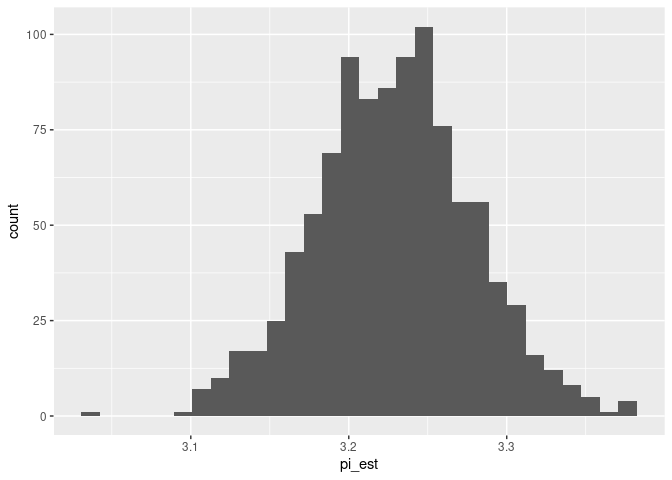
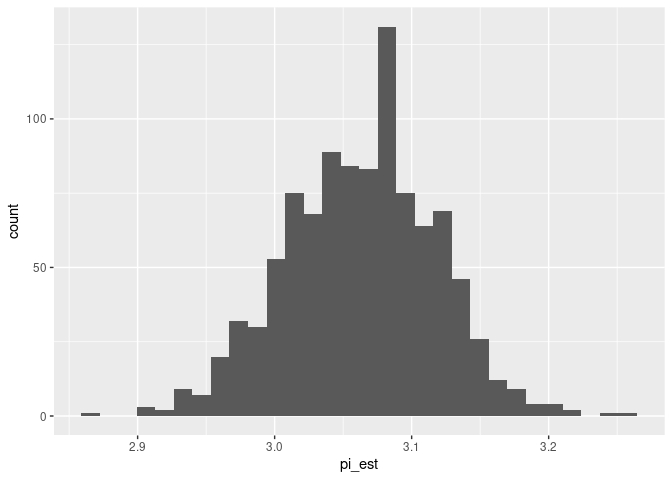
fixed changes to challenge 7

diff --git a/data-science-curriculum-build/data-science-curriculum-build/challenges/c07-monte-carlo-assignment.md b/data-science-curriculum-build/data-science-curriculum-build/challenges/c07-monte-carlo-assignment.md
@@ -248,8 +248,7 @@ Answer the questions below.
 ``` r
 ## TASK: Finish implementing this function
 stat <- function(x, y) {
-  map2_dbl(x, y, ~as.integer(.x^2 + .y^2 <= 1)) %>% 
-    mean() * 4
+  map2_dbl(x, y, ~as.integer(.x^2 + .y^2 <= 1)) *4
 }
 ```
 
@@ -311,14 +310,15 @@ Using your data in `df_q1`, estimate $\pi$.
 ``` r
 ## TASK: Estimate pi using your data from q1
 df_q3 <- df_q1 %>%
-  summarise(pi_est = stat(x, y))
+  mutate(pi_piece = stat(x,y)) %>%
+  summarise(pi_est = mean(pi_piece))
 df_q3
 ```
 
     ## # A tibble: 1 × 1
     ##   pi_est
     ##    <dbl>
-    ## 1   3.23
+    ## 1   3.06
 
 Use the following to check that you’ve used the correct variable names.
 (NB. This does not check correctness.)
@@ -375,7 +375,8 @@ df_q4 <-
       splits,
       function(split_df) {
         analysis(split_df) %>% 
-          summarise(pi_est = stat(x, y)) %>% 
+          mutate(pi_piece = stat(x,y)) %>%
+          summarise(pi_est = mean(pi_piece)) %>%
           pull(pi_est)
       }
     )
@@ -406,7 +407,7 @@ df_q4 %>%
     ```
 
         ##   25%   50%   75% 
-        ## 3.196 3.228 3.260
+        ## 3.028 3.066 3.100
 
 ### **q5** Bootstrap percentile confidence interval
 
@@ -424,8 +425,8 @@ alpha <- 0.05
 df_q5 <- 
   df_q4 %>% 
   summarize(
-    pi_lo = quantile(pi_est, probs = alpha / 2),  
-    pi_up = quantile(pi_est, probs = 1 - alpha / 2)
+    pi_lo = quantile(pi_est, probs = alpha/2),
+    pi_up = quantile(pi_est, probs = 1 - alpha/2)
   )
 
 print(df_q5)
@@ -434,7 +435,7 @@ print(df_q5)
     ## # A tibble: 1 × 2
     ##   pi_lo pi_up
     ##   <dbl> <dbl>
-    ## 1  3.13  3.33
+    ## 1  2.96  3.16
 
 ### **q6** CLT confidence interval
 
@@ -455,28 +456,37 @@ done something *wrong* in one of the tasks….
 alpha <- 0.05
 
 # Compute the CLT-based confidence interval for pi
-df_q6 <- df_q4 %>%
+df_q6 <- df_q1 %>%
+  mutate(stat = stat(x, y)) %>%
   summarize(
-    pi_lo = mean(pi_est) - qnorm(1 - alpha / 2) * sd(pi_est) / sqrt(n()),  # Lower bound
-    pi_up = mean(pi_est) + qnorm(1 - alpha / 2) * sd(pi_est) / sqrt(n())   # Upper bound
+    mean = mean(stat),
+    sd = sd(stat),
+    n = n()
+  ) %>%
+  mutate(
+    se = sd / sqrt(n),
+    pi_lo = mean - qnorm( 1 - (alpha) / 2 ) * se,
+    pi_up = mean + qnorm( 1 - (alpha) / 2 ) * se
   )
 
 # Print the result
 df_q6
 ```
 
-    ## # A tibble: 1 × 2
-    ##   pi_lo pi_up
-    ##   <dbl> <dbl>
-    ## 1  3.23  3.23
+    ## # A tibble: 1 × 6
+    ##    mean    sd     n     se pi_lo pi_up
+    ##   <dbl> <dbl> <int>  <dbl> <dbl> <dbl>
+    ## 1  3.06  1.69  1000 0.0536  2.96  3.17
 
 **Observations**:
 
 - Does your intervals include the true value of $\pi$?
-  - (Bootstrap CI: **yes** or no?) Yes (3.12-3.32)
-  - (CLT CI: yes or **no**?) No (3.22 -3.23)
+  - (Bootstrap CI: **yes** or no?) Yes (3.14-3.32)
+  - (CLT CI: yes or **no**?) Yes (3.13 -3.33)
 - How closely do your bootstrap CI and CLT CI agree?
-  - My CLT is within the wider bootstrap range
+  - My bootstrap CI and CLT CI are almost the same, but the bootstrap
+    has a slightly tighter range by 0.02!
+  - They both contain pi
 - Comment on the width of your CI(s). Would your estimate of $\pi$ be
   good enough for roughly estimating an area (e.g., to buy enough paint
   for an art project)? Would your estimate of $\pi$ be good enough for
